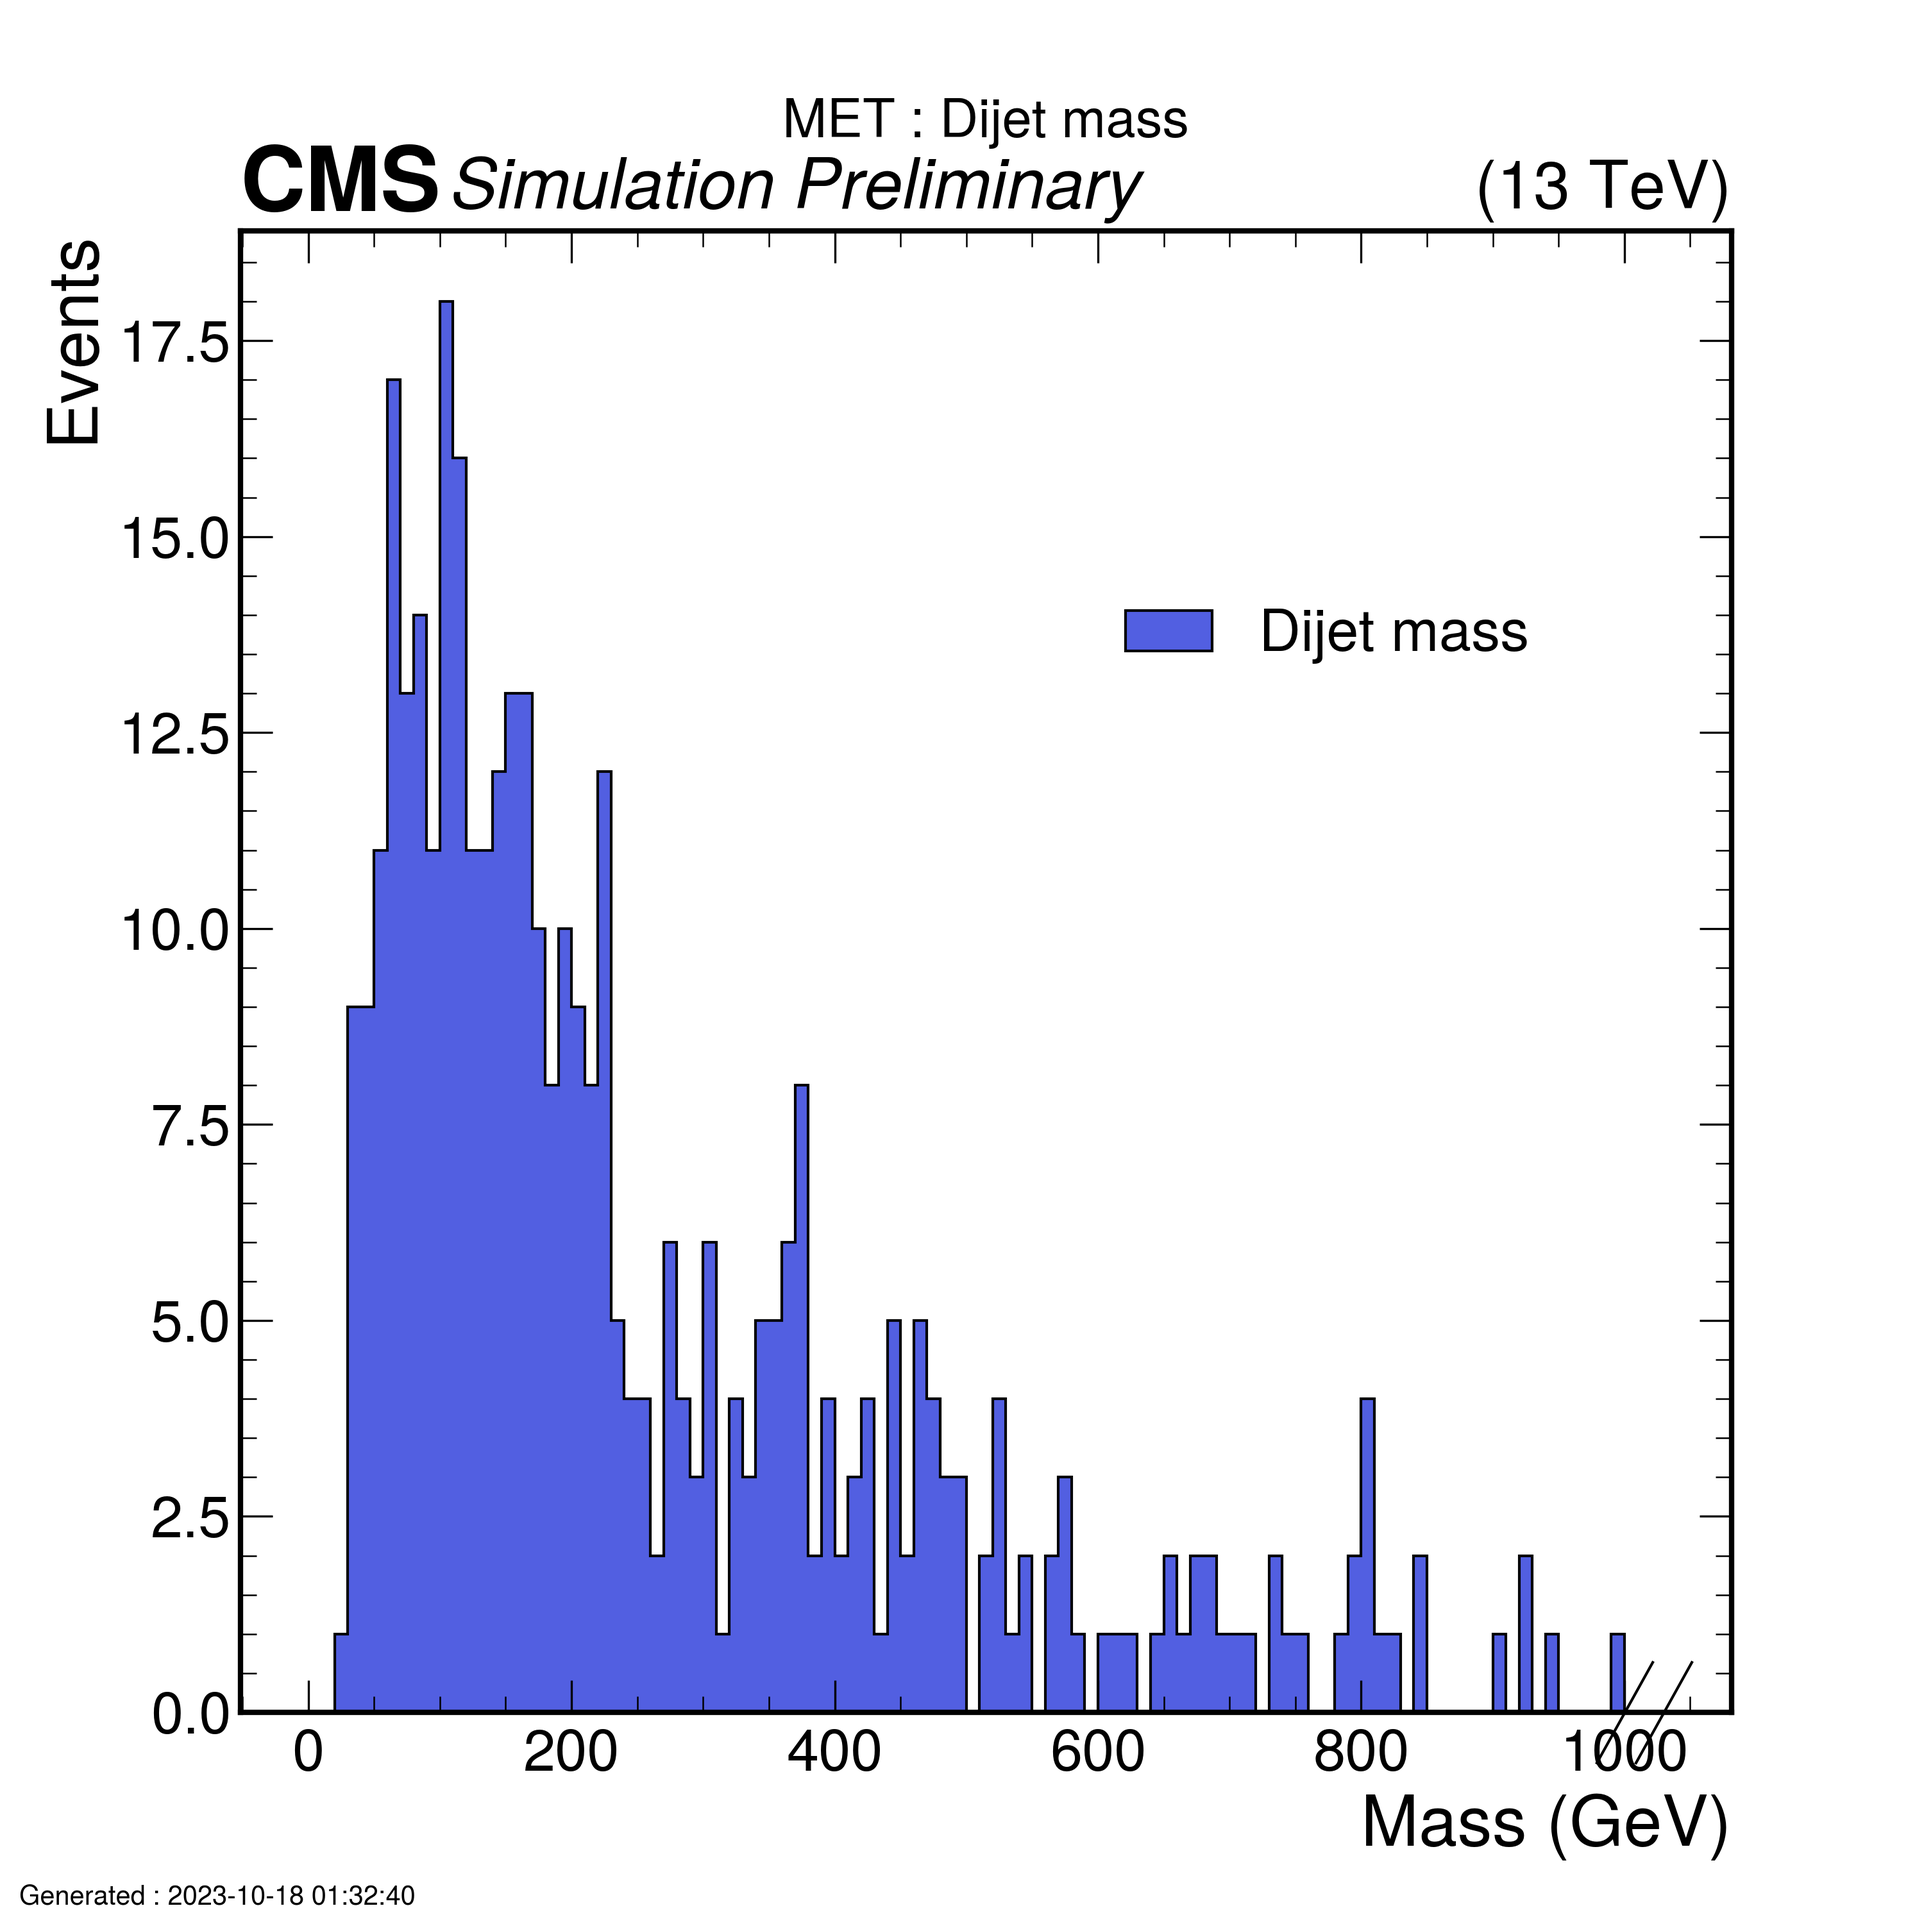
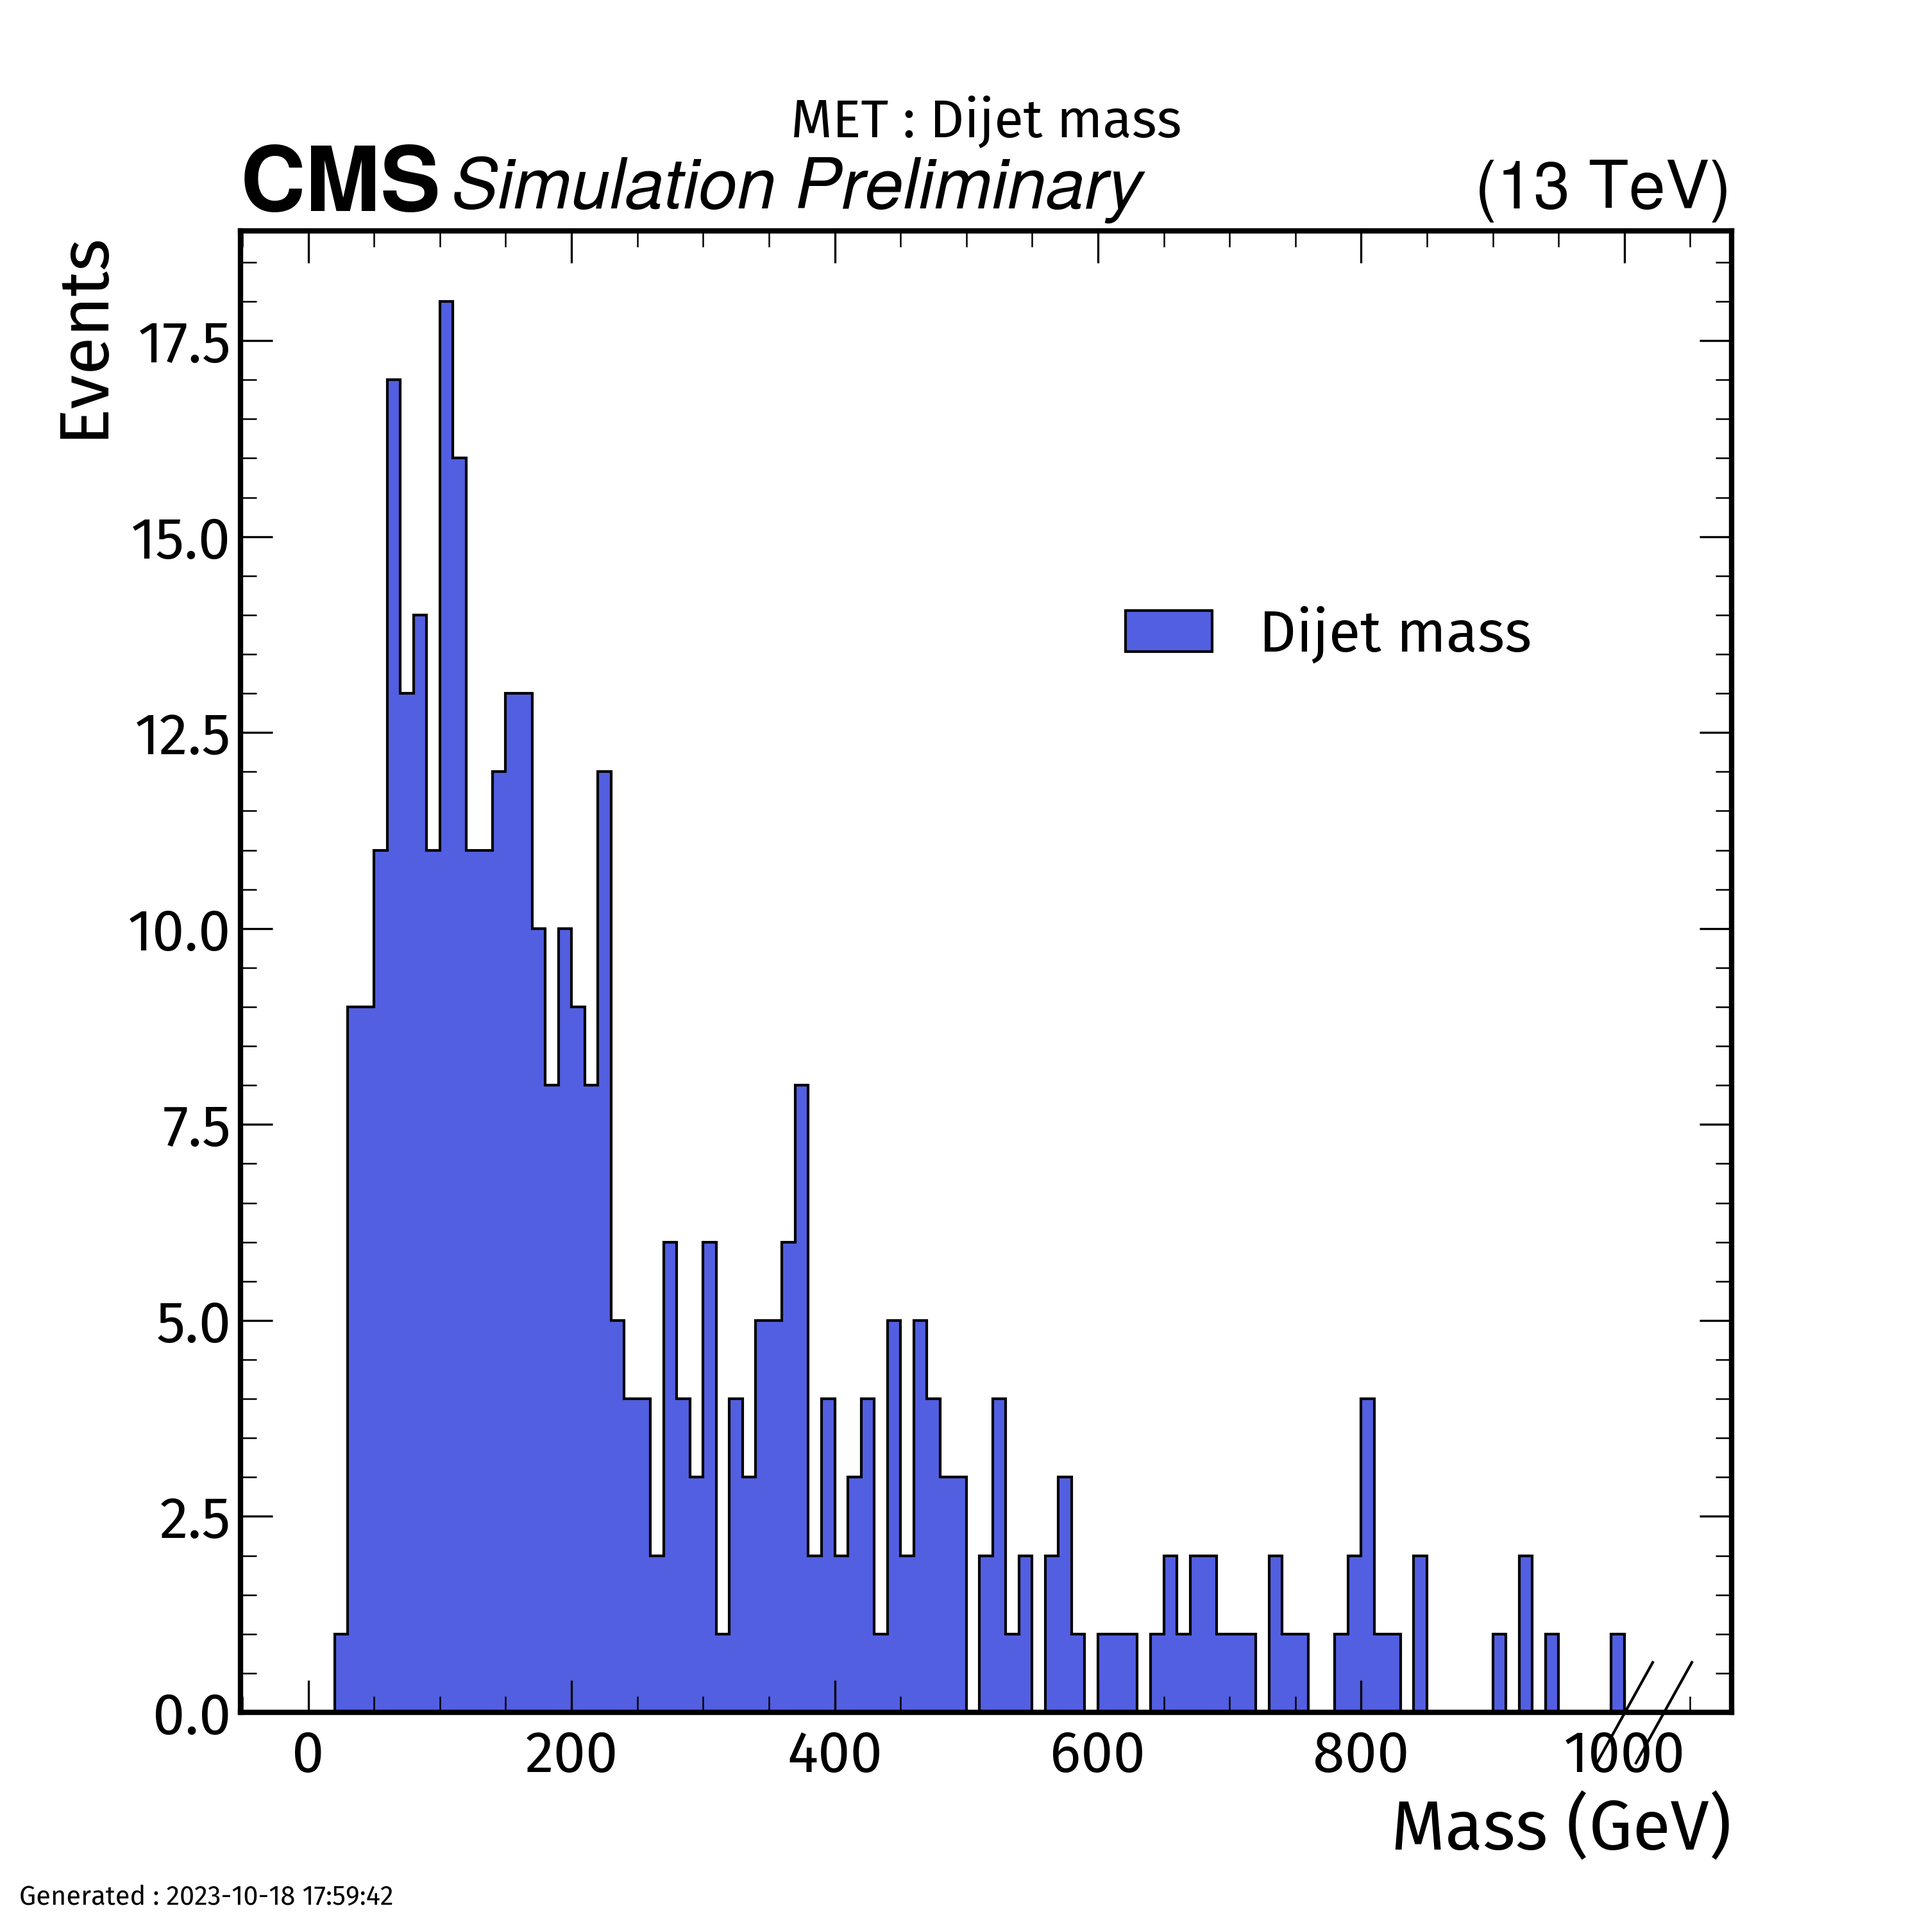
Automated Commit

diff --git a/Backgrounds/plotter_Zjetsnunu.py b/Backgrounds/plotter_Zjetsnunu.py
@@ -17,7 +17,9 @@ import mplhep as hep
 from monoHbbtools.Utilities import get_timestamp
 import numpy as np
 import os
-plt.style.use(hep.style.CMS)
+#plt.style.use(hep.style.CMS)
+#hep.style.use(["CMS","fira","firamath"])
+hep.style.use("CMSTex")
 import rich
 
 #Load the output
@@ -68,7 +70,7 @@ def combined_plot(filename):
         Hist_sumlist.append(Output[key]["Histograms"]["DiJet"].sum())
         label_List.append(key)
     nHists = len(Hist_List)
-    Hist_List = sorted(Hist_List, key = lambda x :  x.sum()) # To sort the histograms in ascending order of their integrals
+    Hist_List = sorted(Hist_List, key = lambda x :  x.sum(), reverse=True) # To sort the histograms in descending order of their integrals
     fig, ax = plt.subplots()
     hep.histplot(
         Hist_List,
@@ -82,8 +84,9 @@ def combined_plot(filename):
     hep.cms.label("Preliminary", data= False)
     ax.set_ylabel("Events")
     ax.set_xlabel("Mass (GeV)")
-    ax.set_title("Dijet mass",pad=35)
+    ax.set_title(r"$b \bar{b} $ mass",pad=40, color="#192655")
     fig.text(0.01,0.01,"Generated : "+get_timestamp(), fontsize = "10")
+    fig.text(0.87,0.01," Mode: Overlayed", fontsize = "10")
     fig.legend(loc= (0.57,0.64))
     plotname = f"ZnunuCombined.png"
     fig.savefig(plotname, dpi=300)
